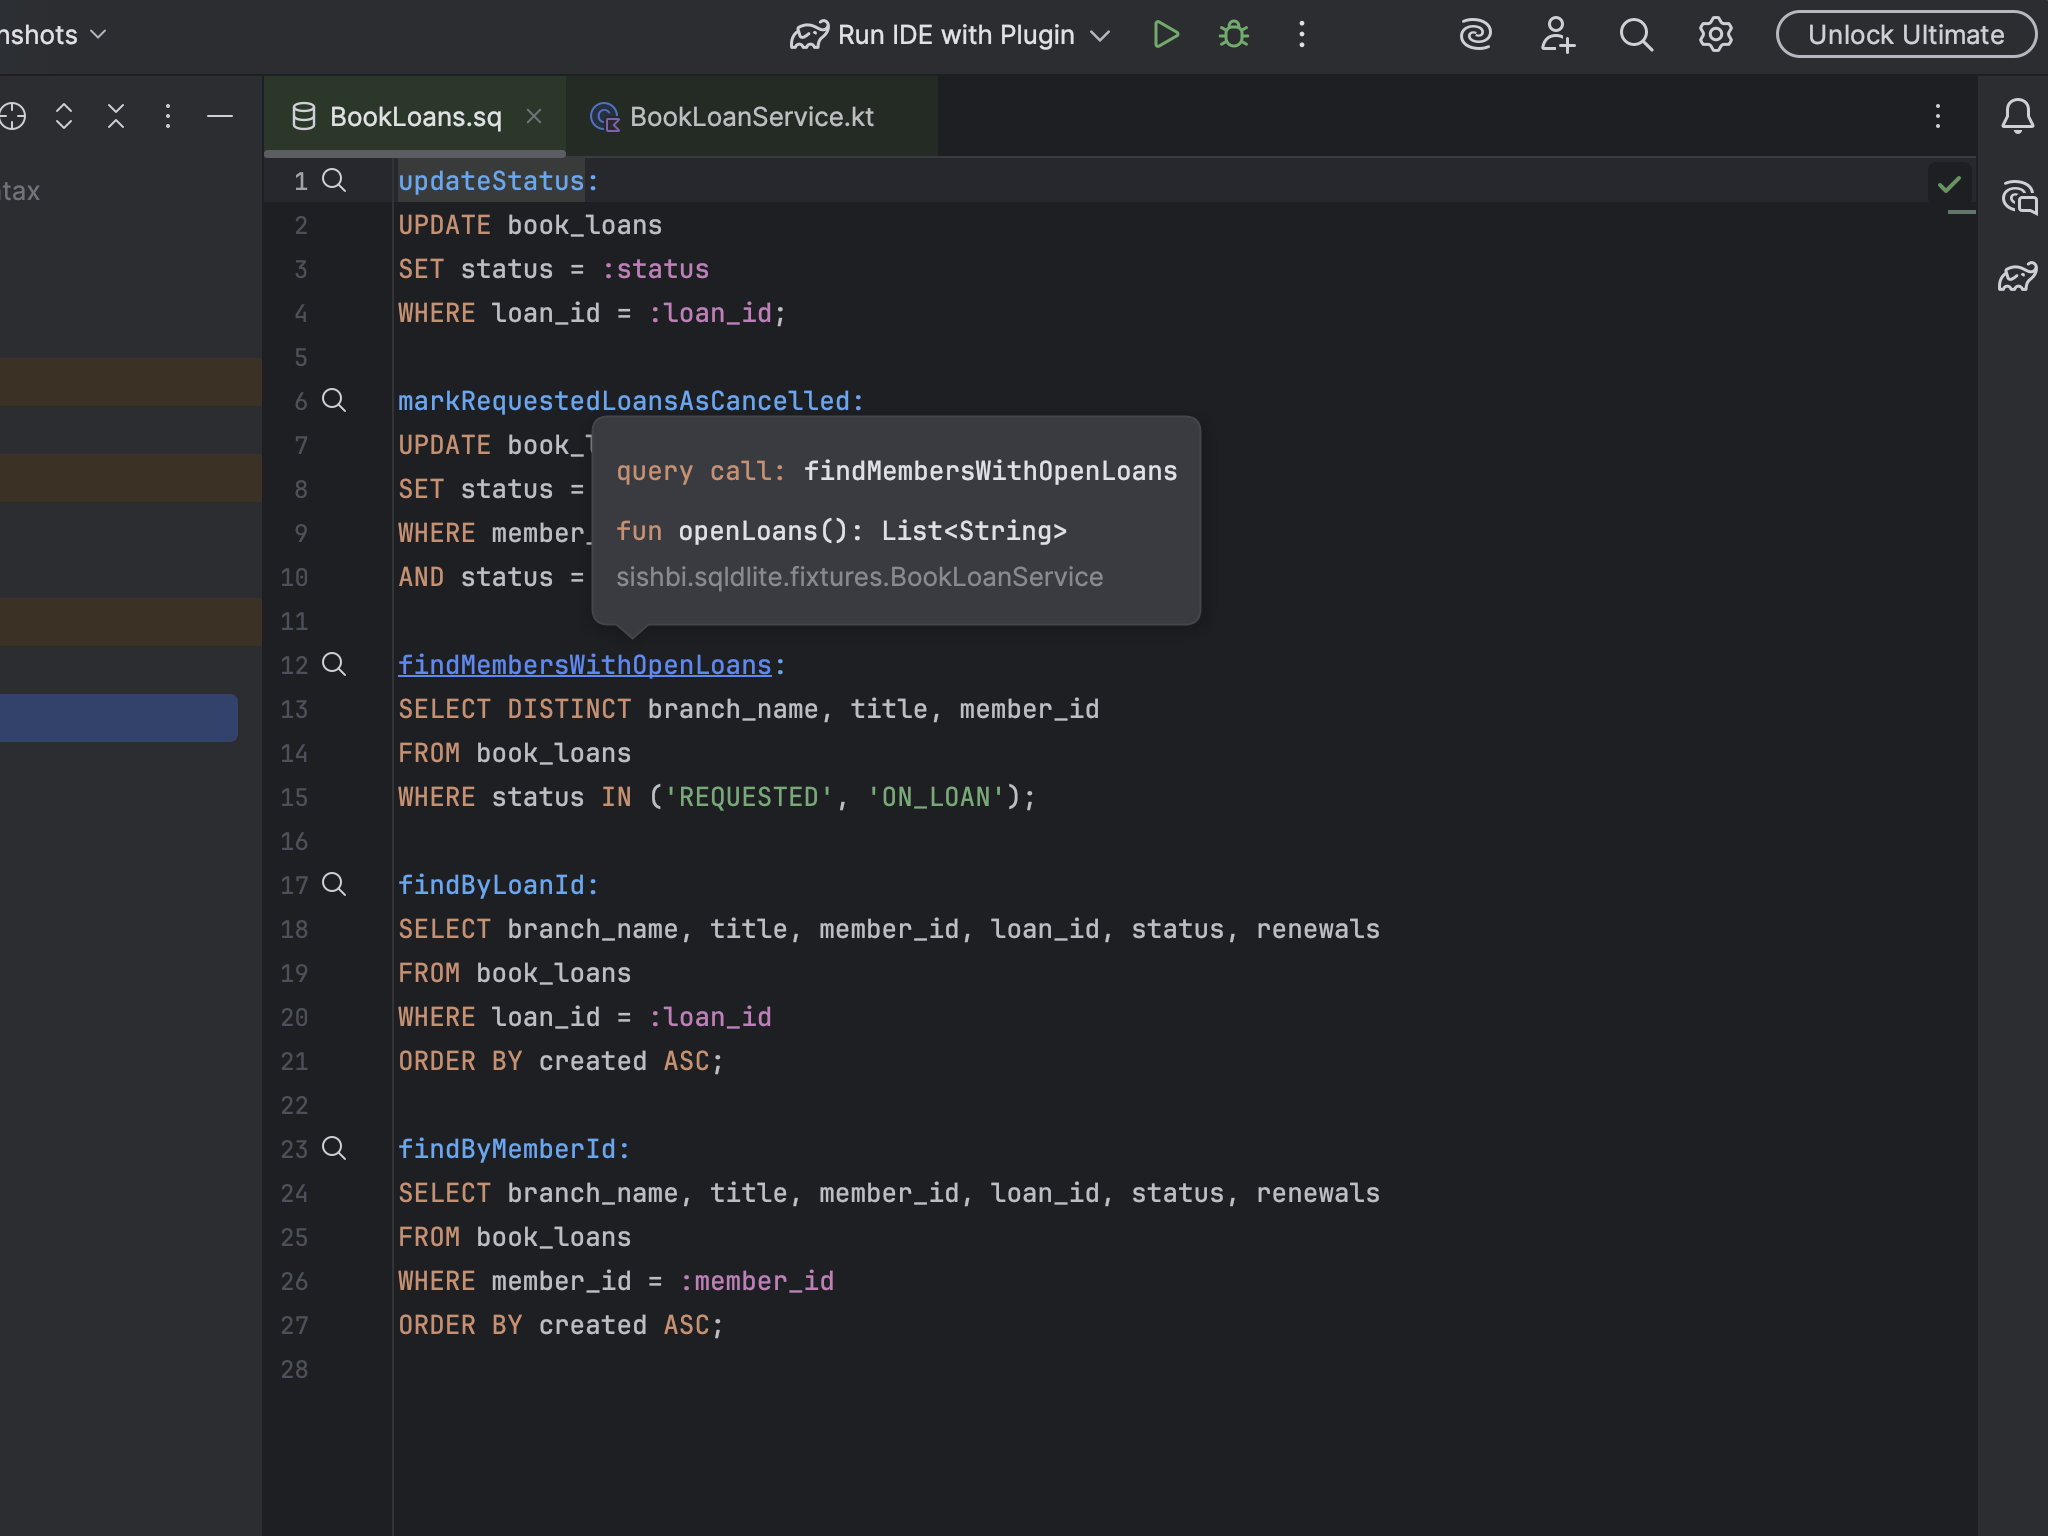
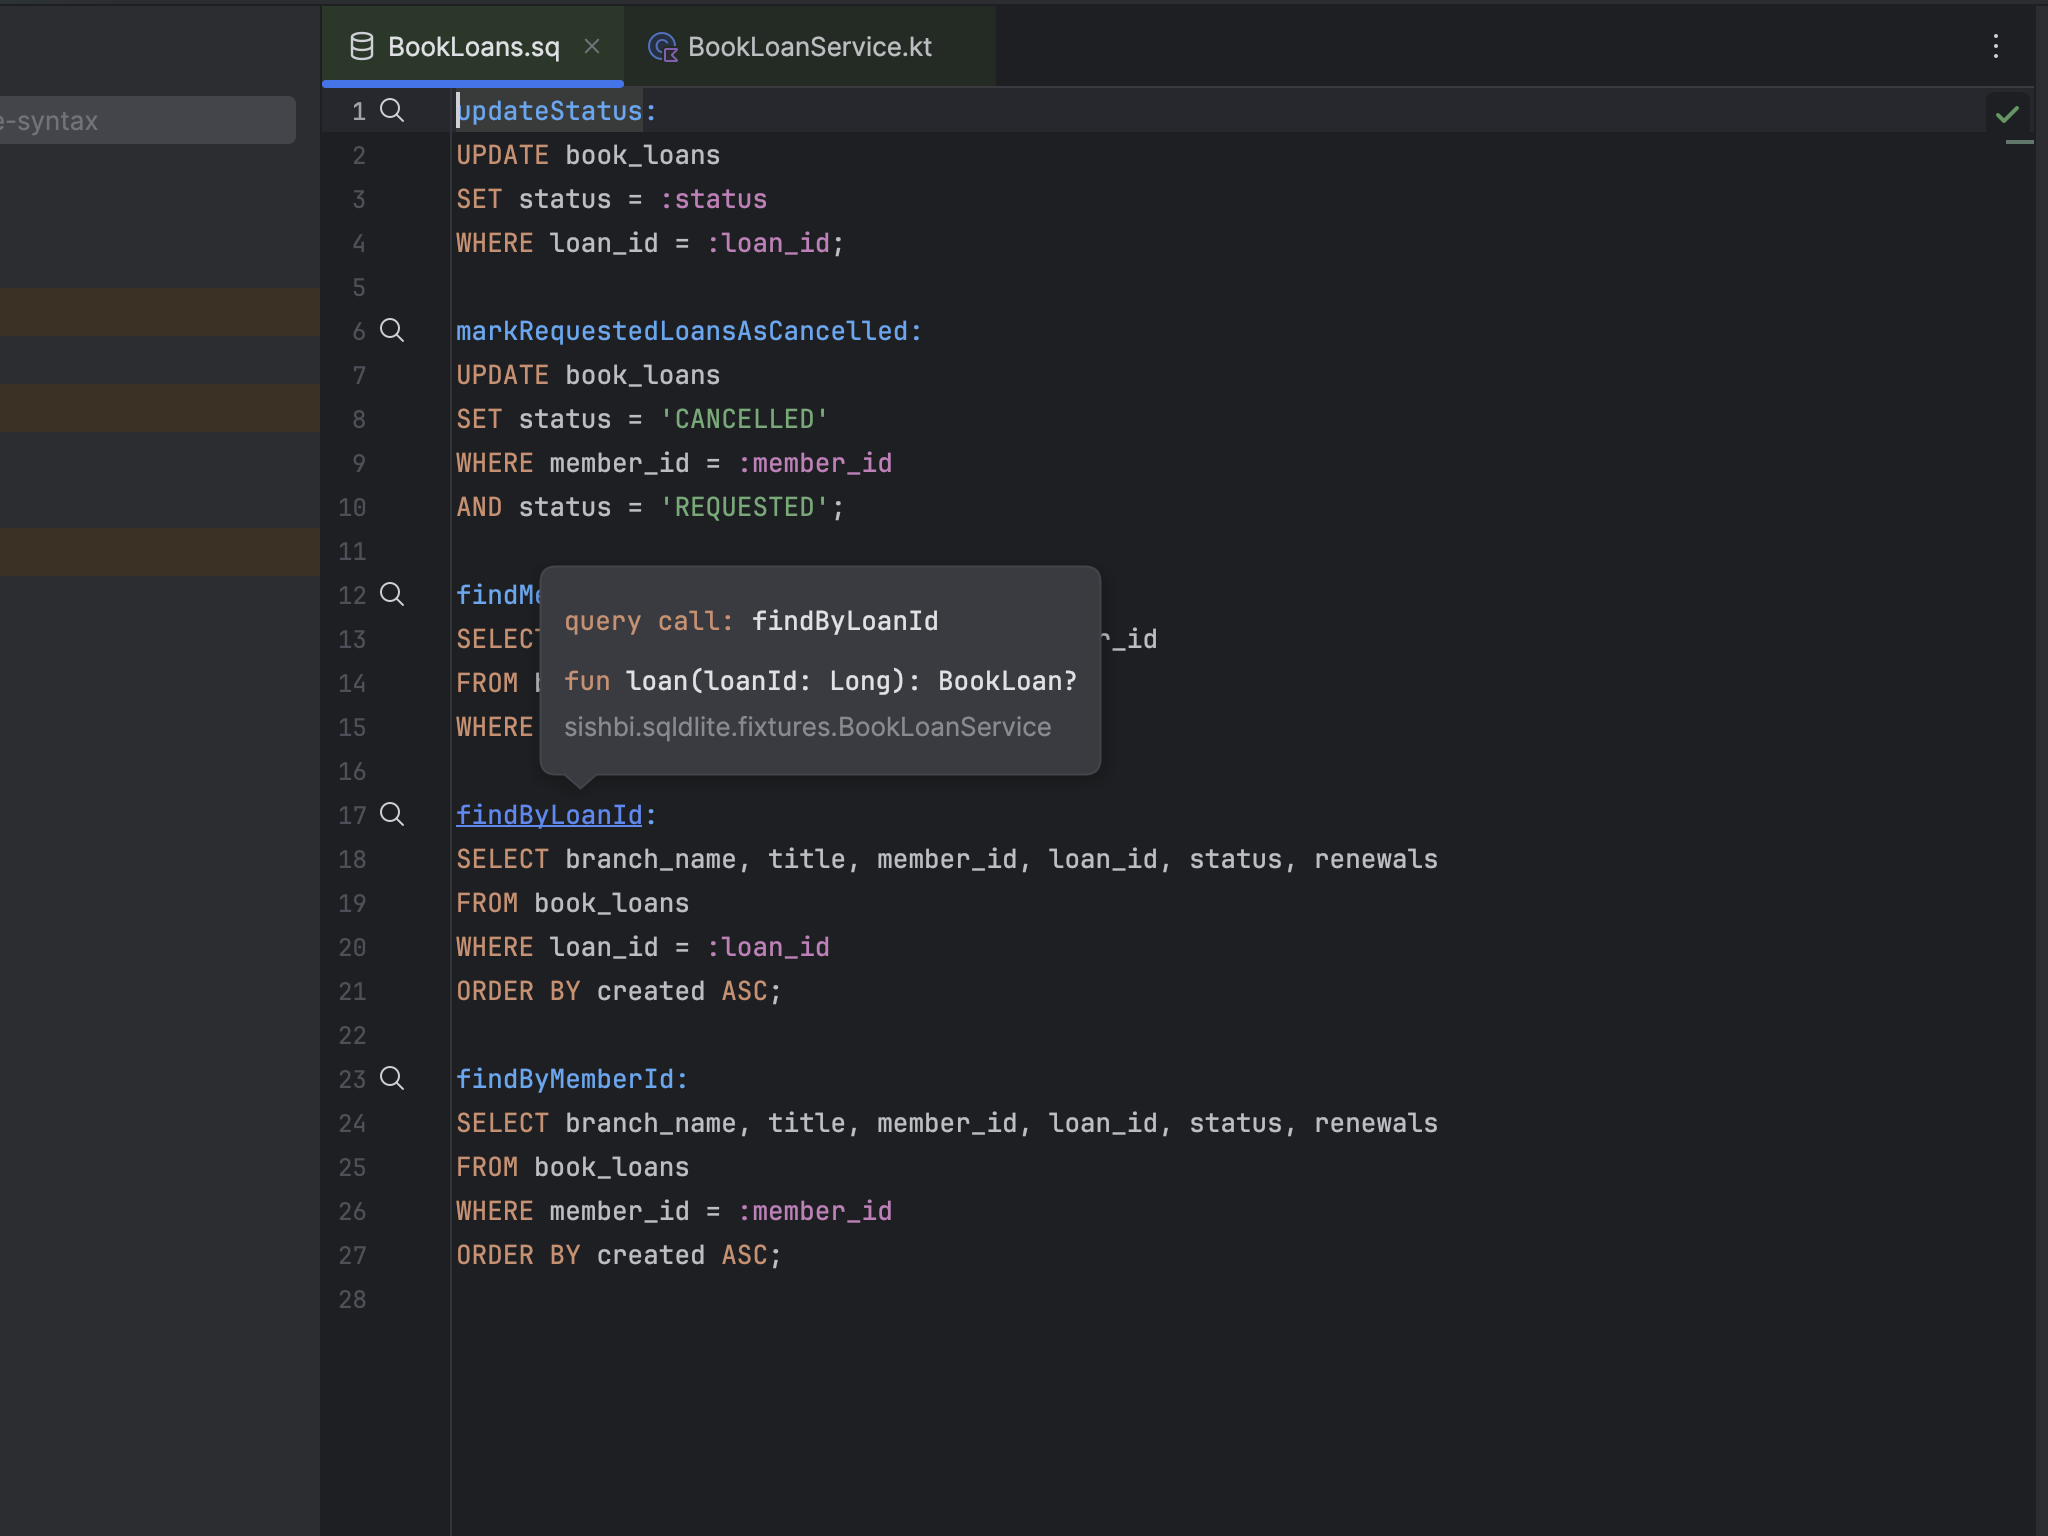
Refresh the popup screenshots for `0.2.0`
- Replace `query-tooltip.png` and `query-call-tooltip.png`. Both popups changed
  when they started showing the generated function.
- Add `bind-argument-tooltip.png` and `query-quick-documentation.png`, for the
  two popups the README did not show.
- Correct the Kotlin query call caption. The popup shows the generated
  function, not the query statement.

diff --git a/README.md b/README.md
@@ -44,9 +44,10 @@ Highlighting, and the Editor | Color Scheme | SqlDelight page that names every c
 
 ![The SqlDelight colour scheme page, with a .sq preview](docs/images/colour-scheme-page.png)
 
-Cmd-hover on a query call in Kotlin names the query it runs, and the `.sq` file holding it:
+Cmd-hover on a query call in Kotlin names the query it runs, the function SqlDelight generated from
+it, and the `.sq` file holding it:
 
-![A hover popup over a Kotlin query call, showing the query and its file](docs/images/query-tooltip.png)
+![A hover popup over a Kotlin query call, showing the generated function and the .sq file](docs/images/query-tooltip.png)
 
 Cmd-hover on a query label names the Kotlin function that calls it, and the class that function
 belongs to:
@@ -60,6 +61,16 @@ Cmd-hover on a table name shows the statement that creates it, and the migration
 Cmd-hover on a column name shows its type, and the migration that declares it:
 
 ![A hover popup over a column name, showing its type and migration file](docs/images/column-definition-tooltip.png)
+
+Cmd-hover on a bind argument names the Kotlin argument matched to it, and the function that passes
+it:
+
+![A hover popup over a bind argument, showing the Kotlin argument and the function passing it](docs/images/bind-argument-tooltip.png)
+
+Quick Documentation on a query label shows the function SqlDelight generated from the query, laid
+out one parameter to a line:
+
+![Quick Documentation on a query label, showing the generated function](docs/images/query-quick-documentation.png)
 
 Quick Documentation on the same table name adds the `CREATE TABLE` statement itself, coloured as
 the editor colours it:
